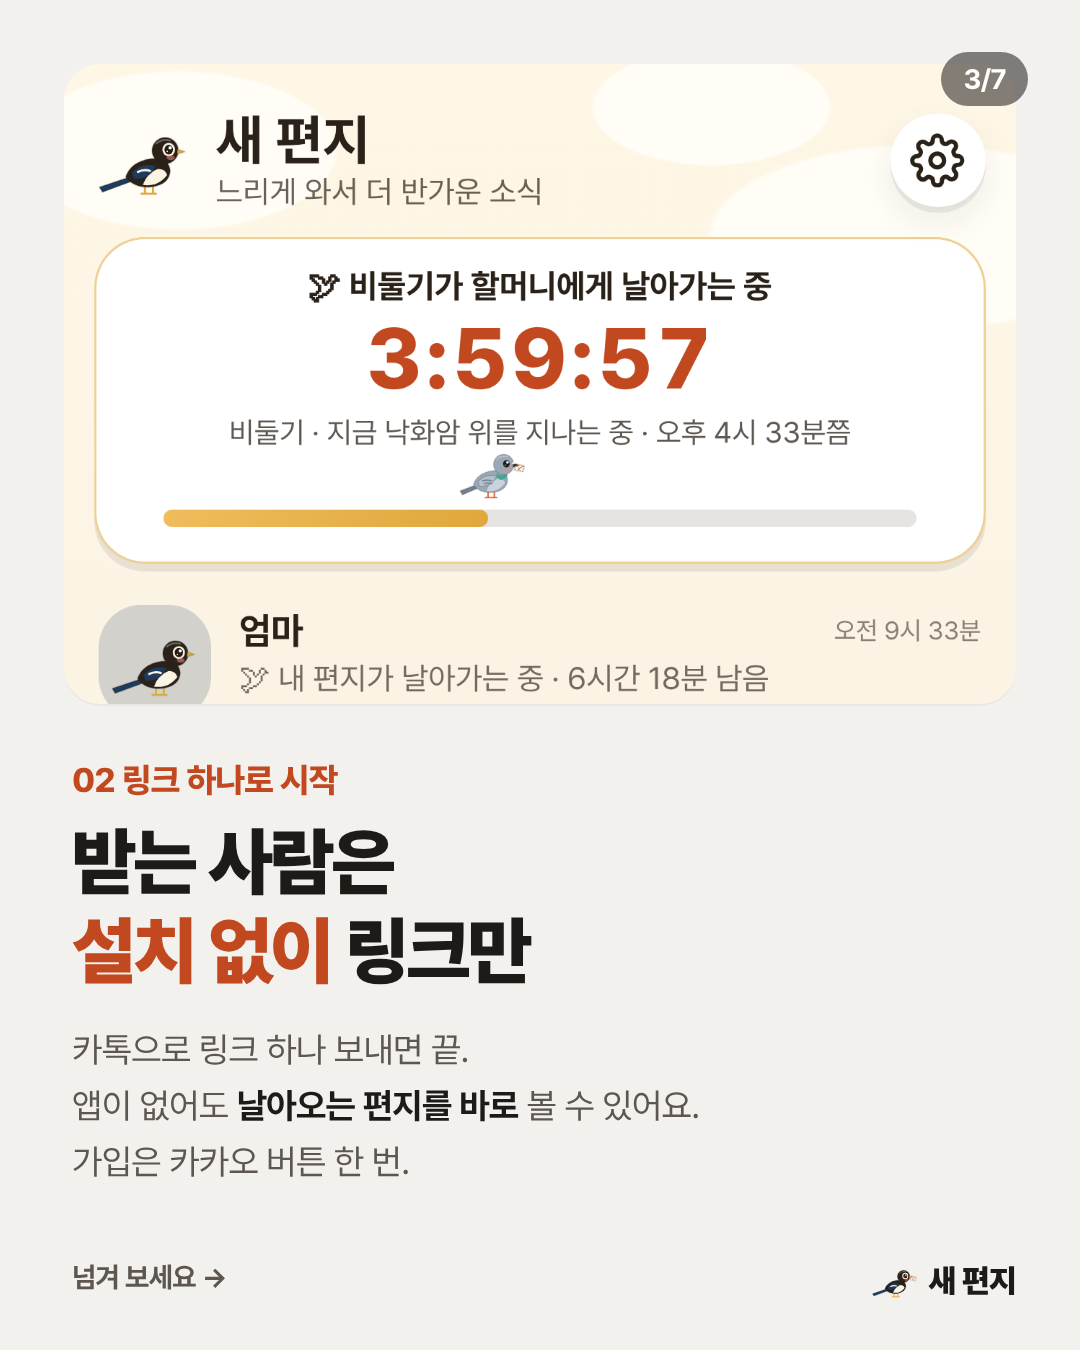
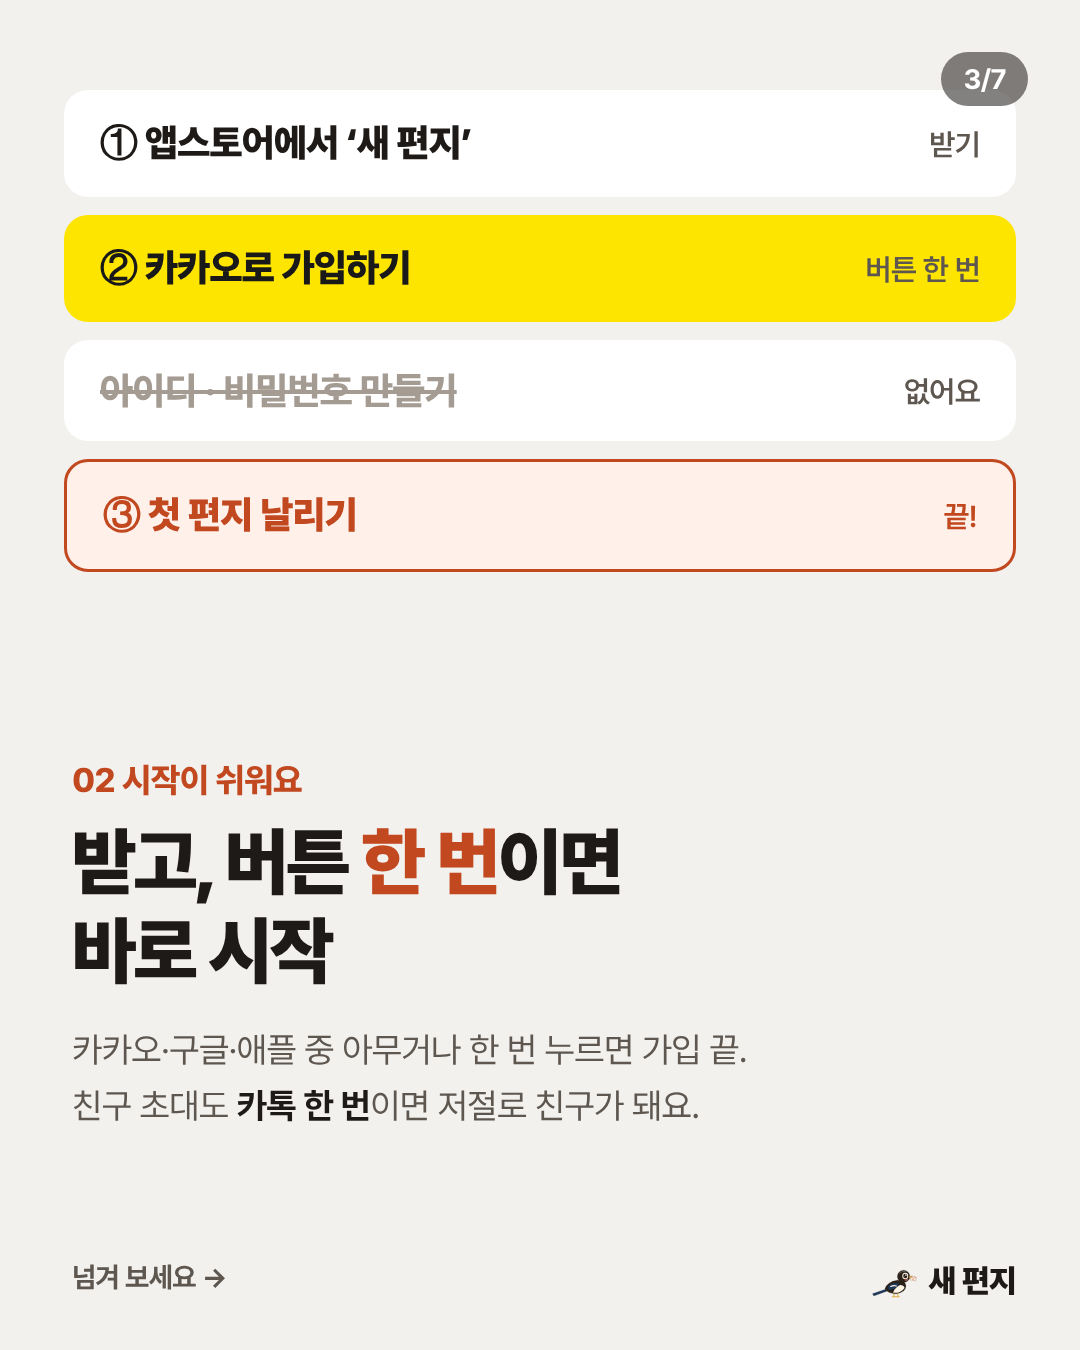
홍보 카드 3장째: '링크만' 대신 '설치가 쉬워요'(받고 카카오 버튼 한 번), 초대 글도 같은 방향
Claude-Session: https://claude.ai/code/session_01GA1ocwaYjo7gRcQeBhuum6

Changed region(s): [[0.0611, 0.0622, 0.9472, 0.5289], [0.0611, 0.56, 0.6722, 0.8711]]

diff --git a/promo/cards-src/car-03.html b/promo/cards-src/car-03.html
@@ -17,5 +17,9 @@ h1 em { font-style: normal; color: #C1481F; }
 .row { display: flex; align-items: center; justify-content: space-between; background: #fff; border-radius: 24px; padding: 28px 36px; font-size: 38px; font-weight: 800; margin-bottom: 18px; }
 .row span { font-size: 30px; font-weight: 600; color: #5E5750; }
 .row s { color: #A49B92; text-decoration-thickness: 4px; }
-</style></head><body><div class="count">3/7</div><div class="pic"><img src="file:///home/user/Bird-Letter/promo/store/ios-1-list.png" style="object-position:top"></div>
-   <div class="txt"><div class="eye">02 링크 하나로 시작</div><h1>받는 사람은<br><em>설치 없이</em> 링크만</h1><p class="body">카톡으로 링크 하나 보내면 끝.<br>앱이 없어도 <b>날아오는 편지를 바로</b> 볼 수 있어요.<br>가입은 카카오 버튼 한 번.</p></div><div class="swipe">넘겨 보세요 →</div><div class="brand"><svg viewBox="0 0 200 160" width="48" height="38.400000000000006" class="birdicon " aria-hidden="true" focusable="false" style="overflow:visible"><path d="M70 112 L10 132 L16 142 L76 120 Z" style="fill:#1E3A5C;stroke:var(--cb-rim, rgba(42,33,24,.2));stroke-width:2.6;stroke-linejoin:round"></path><path d="M100 124 v20 M93 145 h13 M116 122 v22 M109 145 h13" style="stroke:#E0A83C;stroke-width:4;stroke-linecap:round;stroke-linejoin:round;fill:none;opacity:1"></path><path d="M62 112 Q72 82 112 76 Q148 74 150 100 Q148 128 110 132 Q78 134 62 112 Z" style="fill:#2A2118;stroke:var(--cb-rim, rgba(42,33,24,.2));stroke-width:2.6;stroke-linejoin:round"></path><path d="M96 128 Q126 132 144 108 Q140 96 126 96 Q104 104 96 128 Z" fill="#FBF3E4"></path><path d="M74 104 Q92 82 122 90 Q108 118 78 116 Z" style="fill:#1E3A5C;stroke:var(--cb-rim, rgba(42,33,24,.2));stroke-width:2.6;stroke-linejoin:round"></path><path d="M86 102 Q98 96 110 100" style="stroke:#FBF3E4;stroke-width:4.5;stroke-linecap:round;stroke-linejoin:round;fill:none;opacity:1"></path><circle cx="140" cy="60" r="26" style="fill:#2A2118;stroke:var(--cb-rim, rgba(42,33,24,.2));stroke-width:2.6;stroke-linejoin:round"></circle><path d="M122 46 Q134 36 150 40" style="stroke:#fff;stroke-width:3.4;stroke-linecap:round;stroke-linejoin:round;fill:none;opacity:0.3"></path><ellipse cx="147" cy="58" rx="12.5" ry="13.350000000000001" fill="#FBF3E4"></ellipse><ellipse cx="147" cy="58" rx="8.5" ry="9.520000000000001" fill="#241a12"></ellipse><circle cx="149.72" cy="54.6" r="3.23" fill="#fff"></circle><circle cx="144.11" cy="61.74" r="1.445" fill="#fff"></circle><ellipse cx="151" cy="74" rx="8" ry="4.8" fill="#F28B82" opacity=".55"></ellipse><g transform="translate(168 66) rotate(12) scale(0.95)"><rect x="0" y="-9" width="26" height="18" rx="2.5" fill="#FFF9EC" style="stroke:var(--cb-rim, rgba(42,33,24,.2));stroke-width:2.6;stroke-linejoin:round"></rect><rect x="1.8" y="-7.2" width="22.4" height="14.4" rx="1.5" fill="none" stroke="#C1481F" stroke-width="1.6" stroke-dasharray="3.5 3"></rect><path d="M2 -7 L13 1.5 L24 -7" fill="none" stroke="#C1481F" stroke-width="1.6" stroke-linejoin="round"></path><path d="M13 6.4 C9.6 3.8 11.2 1.2 13 2.8 C14.8 1.2 16.4 3.8 13 6.4 Z" fill="#C1481F"></path></g><path d="M164 57 L179 62 L164 67 Z" style="fill:#E0A83C;stroke:var(--cb-rim, rgba(42,33,24,.2));stroke-width:2.6;stroke-linejoin:round"></path></svg>새 편지</div></body></html>
+</style></head><body><div class="count">3/7</div><div style="position:absolute;left:64px;right:64px;top:90px">
+     <div class="row"><b>① 앱스토어에서 ‘새 편지’</b><span>받기</span></div>
+     <div class="row" style="background:#FEE500;color:#191919"><b>② 카카오로 가입하기</b><span>버튼 한 번</span></div>
+     <div class="row"><s>아이디 · 비밀번호 만들기</s><span>없어요</span></div>
+     <div class="row" style="background:#FFF1EA;border:3px solid #C1481F"><b style="color:#C1481F">③ 첫 편지 날리기</b><span style="color:#C1481F">끝!</span></div></div>
+   <div class="txt"><div class="eye">02 시작이 쉬워요</div><h1>받고, 버튼 <em>한 번</em>이면<br>바로 시작</h1><p class="body">카카오·구글·애플 중 아무거나 한 번 누르면 가입 끝.<br>친구 초대도 <b>카톡 한 번</b>이면 저절로 친구가 돼요.</p></div><div class="swipe">넘겨 보세요 →</div><div class="brand"><svg viewBox="0 0 200 160" width="48" height="38.400000000000006" class="birdicon " aria-hidden="true" focusable="false" style="overflow:visible"><path d="M70 112 L10 132 L16 142 L76 120 Z" style="fill:#1E3A5C;stroke:var(--cb-rim, rgba(42,33,24,.2));stroke-width:2.6;stroke-linejoin:round"></path><path d="M100 124 v20 M93 145 h13 M116 122 v22 M109 145 h13" style="stroke:#E0A83C;stroke-width:4;stroke-linecap:round;stroke-linejoin:round;fill:none;opacity:1"></path><path d="M62 112 Q72 82 112 76 Q148 74 150 100 Q148 128 110 132 Q78 134 62 112 Z" style="fill:#2A2118;stroke:var(--cb-rim, rgba(42,33,24,.2));stroke-width:2.6;stroke-linejoin:round"></path><path d="M96 128 Q126 132 144 108 Q140 96 126 96 Q104 104 96 128 Z" fill="#FBF3E4"></path><path d="M74 104 Q92 82 122 90 Q108 118 78 116 Z" style="fill:#1E3A5C;stroke:var(--cb-rim, rgba(42,33,24,.2));stroke-width:2.6;stroke-linejoin:round"></path><path d="M86 102 Q98 96 110 100" style="stroke:#FBF3E4;stroke-width:4.5;stroke-linecap:round;stroke-linejoin:round;fill:none;opacity:1"></path><circle cx="140" cy="60" r="26" style="fill:#2A2118;stroke:var(--cb-rim, rgba(42,33,24,.2));stroke-width:2.6;stroke-linejoin:round"></circle><path d="M122 46 Q134 36 150 40" style="stroke:#fff;stroke-width:3.4;stroke-linecap:round;stroke-linejoin:round;fill:none;opacity:0.3"></path><ellipse cx="147" cy="58" rx="12.5" ry="13.350000000000001" fill="#FBF3E4"></ellipse><ellipse cx="147" cy="58" rx="8.5" ry="9.520000000000001" fill="#241a12"></ellipse><circle cx="149.72" cy="54.6" r="3.23" fill="#fff"></circle><circle cx="144.11" cy="61.74" r="1.445" fill="#fff"></circle><ellipse cx="151" cy="74" rx="8" ry="4.8" fill="#F28B82" opacity=".55"></ellipse><g transform="translate(168 66) rotate(12) scale(0.95)"><rect x="0" y="-9" width="26" height="18" rx="2.5" fill="#FFF9EC" style="stroke:var(--cb-rim, rgba(42,33,24,.2));stroke-width:2.6;stroke-linejoin:round"></rect><rect x="1.8" y="-7.2" width="22.4" height="14.4" rx="1.5" fill="none" stroke="#C1481F" stroke-width="1.6" stroke-dasharray="3.5 3"></rect><path d="M2 -7 L13 1.5 L24 -7" fill="none" stroke="#C1481F" stroke-width="1.6" stroke-linejoin="round"></path><path d="M13 6.4 C9.6 3.8 11.2 1.2 13 2.8 C14.8 1.2 16.4 3.8 13 6.4 Z" fill="#C1481F"></path></g><path d="M164 57 L179 62 L164 67 Z" style="fill:#E0A83C;stroke:var(--cb-rim, rgba(42,33,24,.2));stroke-width:2.6;stroke-linejoin:round"></path></svg>새 편지</div></body></html>
